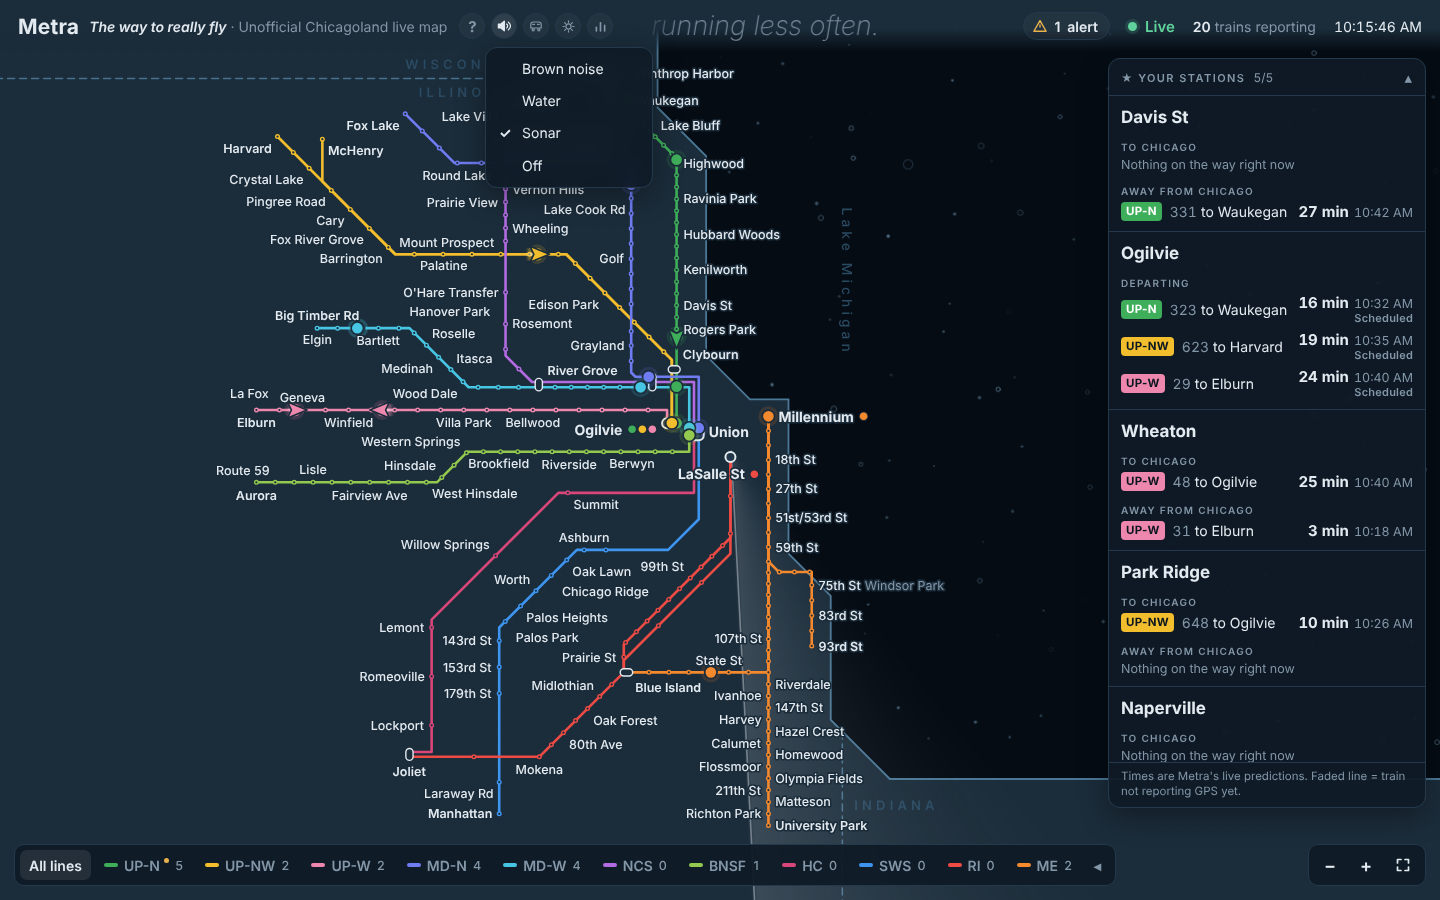
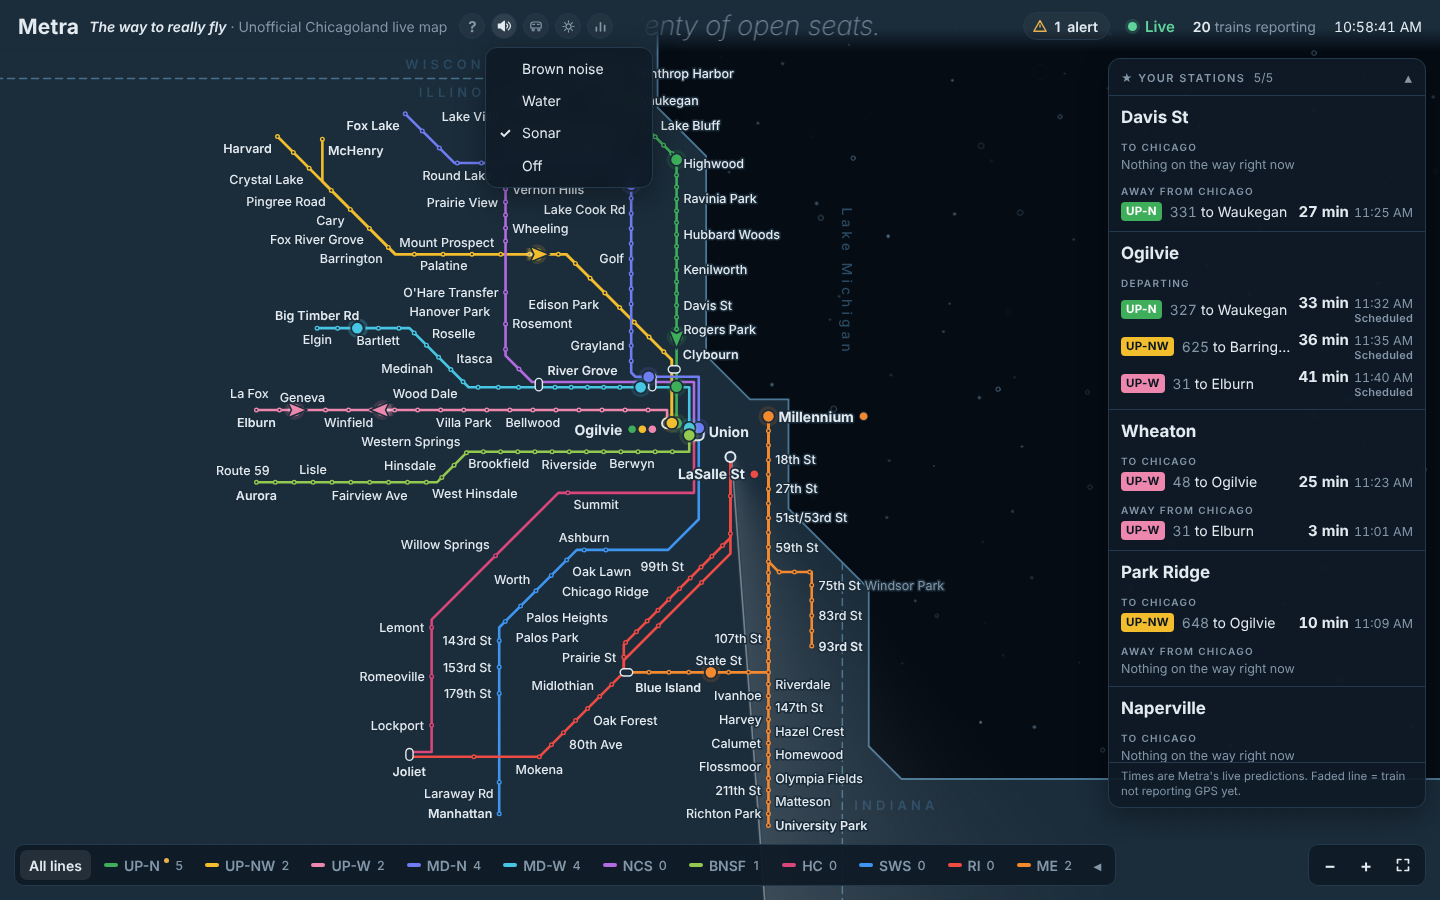
Keep the South Chicago branch on land: move the shoreline out past South Shore
- Lake edge now bends out round South Shore, 75th and 79th St
- Indiana border starts right at the new shoreline
- All README screenshots retaken

Claude-Session: https://claude.ai/code/session_015yZ5M93PaviEULjR5vuC4G

diff --git a/index.html b/index.html
@@ -876,7 +876,7 @@ const defs=el("defs",{},svg);
 const pat=el("pattern",{id:"dots",width:30,height:30,patternUnits:"userSpaceOnUse"},defs);
 el("circle",{cx:15,cy:15,r:1.1,fill:"var(--dot)"},pat);
 el("rect",{x:-3000,y:-3000,width:7200,height:7500,fill:"url(#dots)"},world);
-const LAKE="M800,-3000 L800,90 L892,182 L892,560 L975,643 L1048,643 L1048,935 L1128,1015 L1128,1250 L1240,1362 L4200,1362 L4200,-3000 L800,-3000 Z";
+const LAKE="M800,-3000 L800,90 L892,182 L892,560 L975,643 L1048,643 L1048,850 L1200,1002 L1200,1300 L1262,1362 L4200,1362 L4200,-3000 L800,-3000 Z";
 /* ---- state borders (drawn under the lake, so the lake trims them at the shoreline) ----
    Schematic, not geographic: each border sits where it really falls between stations.
    Wisconsin: between Winthrop Harbor (IL) and Kenosha (WI). Indiana: east of the
@@ -887,10 +887,11 @@ const borderG=el("g",{"aria-hidden":"true"},world),STATE_LBL=[];
  const SL=(txt,x,y,dx,dy,anchor)=>{const t=el("text",{class:"stlbl","text-anchor":anchor},borderG);t.textContent=txt;STATE_LBL.push({t,x,y,dx,dy})};
  SL("WISCONSIN",430,wy,0,-9,"middle");SL("ILLINOIS",430,wy,0,19,"middle");
  const sc=STN.get("93rd St|South Chicago")||STN.get("93rd St"),ix=Math.max(1150,(sc?sc.xy[0]:1092)+50);
- el("path",{class:"border",d:`M${ix},1000 L${ix},4500`},borderG);
+ el("path",{class:"border",d:`M${ix},${850+(ix-1048)} L${ix},4500`},borderG);   // starts right at the shoreline
  SL("INDIANA",ix,1420,12,0,"start");}
 el("path",{class:"lake",d:LAKE},world);
-el("path",{class:"shore",d:"M800,-3000 L800,90 L892,182 L892,560 L975,643 L1048,643 L1048,935 L1128,1015 L1128,1250 L1240,1362 L4200,1362"},world);
+/* the shore bends out round South Shore so the South Chicago branch (71st St, then down to 93rd) stays on land */
+el("path",{class:"shore",d:"M800,-3000 L800,90 L892,182 L892,560 L975,643 L1048,643 L1048,850 L1200,1002 L1200,1300 L1262,1362 L4200,1362"},world);
 /* ---- lake water ----
    ~110 small glints on a jittered grid + ~11 ripples, generated once from a fixed seed (same water every load),
    clipped to the lake. Covers everything you can reach when zoomed all the way out. */
